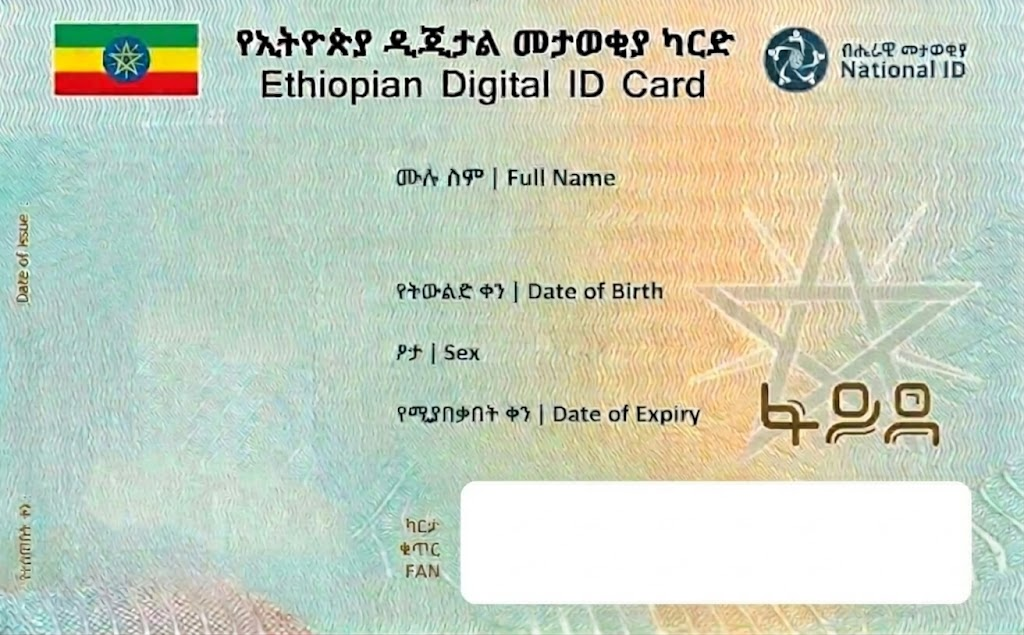
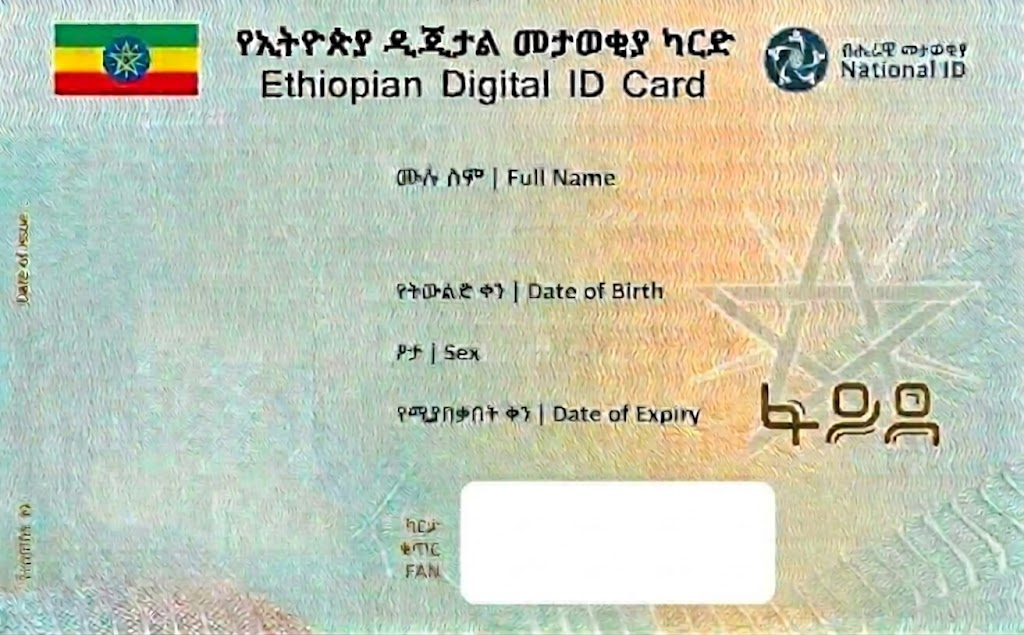
Fix Fayda API key in env and optimize card template typography and layout alignment

diff --git a/lib/telegram/card-renderer.ts b/lib/telegram/card-renderer.ts
@@ -243,32 +243,32 @@ export async function renderFrontCardCanvas(
   const expiryGregFormatted = formatGregorianDate(data.dateOfExpiryGreg);
 
   if (templateId === "template1") {
-    ctx.font = "bold 26px NotoSansEthiopic, Arial, sans-serif";
-    ctx.fillText(data.fullNameAmharic, 418, 207);
+    ctx.font = "bold 25px NotoSansEthiopic, Arial, sans-serif";
+    ctx.fillText(data.fullNameAmharic, 418, 196);
 
-    ctx.font = "bold 24px Arial, sans-serif";
-    ctx.fillText(data.fullNameEnglish, 418, 250);
+    ctx.font = "bold 23px Arial, sans-serif";
+    ctx.fillText(data.fullNameEnglish, 418, 230);
 
-    ctx.font = "bold 23px NotoSansEthiopic, Arial, sans-serif";
-    ctx.fillText(`${data.dateOfBirthEth} | ${dobGregFormatted}`, 418, 334);
+    ctx.font = "bold 22px NotoSansEthiopic, Arial, sans-serif";
+    ctx.fillText(`${data.dateOfBirthEth} | ${dobGregFormatted}`, 418, 330);
 
-    ctx.font = "bold 23px NotoSansEthiopic, Arial, sans-serif";
-    ctx.fillText(`${data.sexAmharic} | ${data.sexEnglish}`, 418, 405);
+    ctx.font = "bold 22px NotoSansEthiopic, Arial, sans-serif";
+    ctx.fillText(`${data.sexAmharic} | ${data.sexEnglish}`, 418, 394);
 
-    ctx.font = "bold 23px NotoSansEthiopic, Arial, sans-serif";
-    ctx.fillText(`${data.dateOfExpiryEth} | ${expiryGregFormatted}`, 418, 468);
+    ctx.font = "bold 22px NotoSansEthiopic, Arial, sans-serif";
+    ctx.fillText(`${data.dateOfExpiryEth} | ${expiryGregFormatted}`, 418, 460);
 
-    // Barcode box and FAN
-    const barcodeBoxX = 456;
-    const barcodeBoxY = 496;
-    const barcodeBoxW = 328;
+    // Barcode box and FAN (Strictly inside existing white box: x=457..783, y=498..594)
+    const barcodeBoxX = 457;
+    const barcodeBoxY = 498;
+    const barcodeBoxW = 326;
 
     ctx.fillStyle = "#020617";
-    ctx.font = "bold 22px monospace";
+    ctx.font = "bold 21px monospace";
     ctx.textAlign = "center";
-    ctx.fillText(data.fanNumber, barcodeBoxX + barcodeBoxW / 2, barcodeBoxY + 26);
+    ctx.fillText(data.fanNumber, barcodeBoxX + barcodeBoxW / 2, barcodeBoxY + 25);
     ctx.textAlign = "left";
-    drawCode128Barcode(ctx, data.fanNumber, barcodeBoxX + 10, barcodeBoxY + 34, barcodeBoxW - 20, 52);
+    drawCode128Barcode(ctx, data.fanNumber, barcodeBoxX + 13, barcodeBoxY + 34, barcodeBoxW - 26, 52);
   } else if (templateId === "template2") {
     ctx.font = "bold 26px NotoSansEthiopic, Arial, sans-serif";
     ctx.fillText(data.fullNameAmharic, 418, 208);
@@ -390,26 +390,17 @@ export async function renderBackCardCanvas(
   const qrImg = await loadServerImage(qrSource);
 
   if (templateId === "template1") {
-    ctx.font = "bold 25px Arial, sans-serif";
-    ctx.fillText(data.phoneNumber, 40, 110);
+    ctx.font = "bold 24px Arial, sans-serif";
+    ctx.fillText(data.phoneNumber, 40, 104);
 
-    ctx.font = "bold 23px NotoSansEthiopic, Arial, sans-serif";
-    ctx.fillText(`${data.nationalityAmharic} | ${data.nationalityEnglish}`, 40, 194);
+    ctx.font = "bold 22px NotoSansEthiopic, Arial, sans-serif";
+    ctx.fillText(`${data.nationalityAmharic} | ${data.nationalityEnglish}`, 40, 188);
 
-    ctx.font = "bold 21px NotoSansEthiopic, Arial, sans-serif";
-    ctx.fillText(data.regionAmharic, 40, 258);
-    ctx.font = "bold 21px Arial, sans-serif";
-    ctx.fillText(data.regionEnglish, 40, 293);
-
-    ctx.font = "bold 21px NotoSansEthiopic, Arial, sans-serif";
-    ctx.fillText(data.subcityAmharic, 40, 330);
-    ctx.font = "bold 21px Arial, sans-serif";
-    ctx.fillText(data.subcityEnglish, 40, 359);
-
-    ctx.font = "bold 21px NotoSansEthiopic, Arial, sans-serif";
-    ctx.fillText(data.woredaAmharic, 40, 395);
-    ctx.font = "bold 21px Arial, sans-serif";
-    ctx.fillText(data.woredaEnglish, 40, 430);
+    // Tight single-line spacing under Address
+    ctx.font = "bold 20px NotoSansEthiopic, Arial, sans-serif";
+    ctx.fillText(`${data.regionAmharic} / ${data.regionEnglish}`, 40, 254);
+    ctx.fillText(`${data.subcityAmharic} / ${data.subcityEnglish}`, 40, 282);
+    ctx.fillText(`${data.woredaAmharic} / ${data.woredaEnglish}`, 40, 310);
 
     // FIN Number inside FIN box
     ctx.fillStyle = "#020617";
